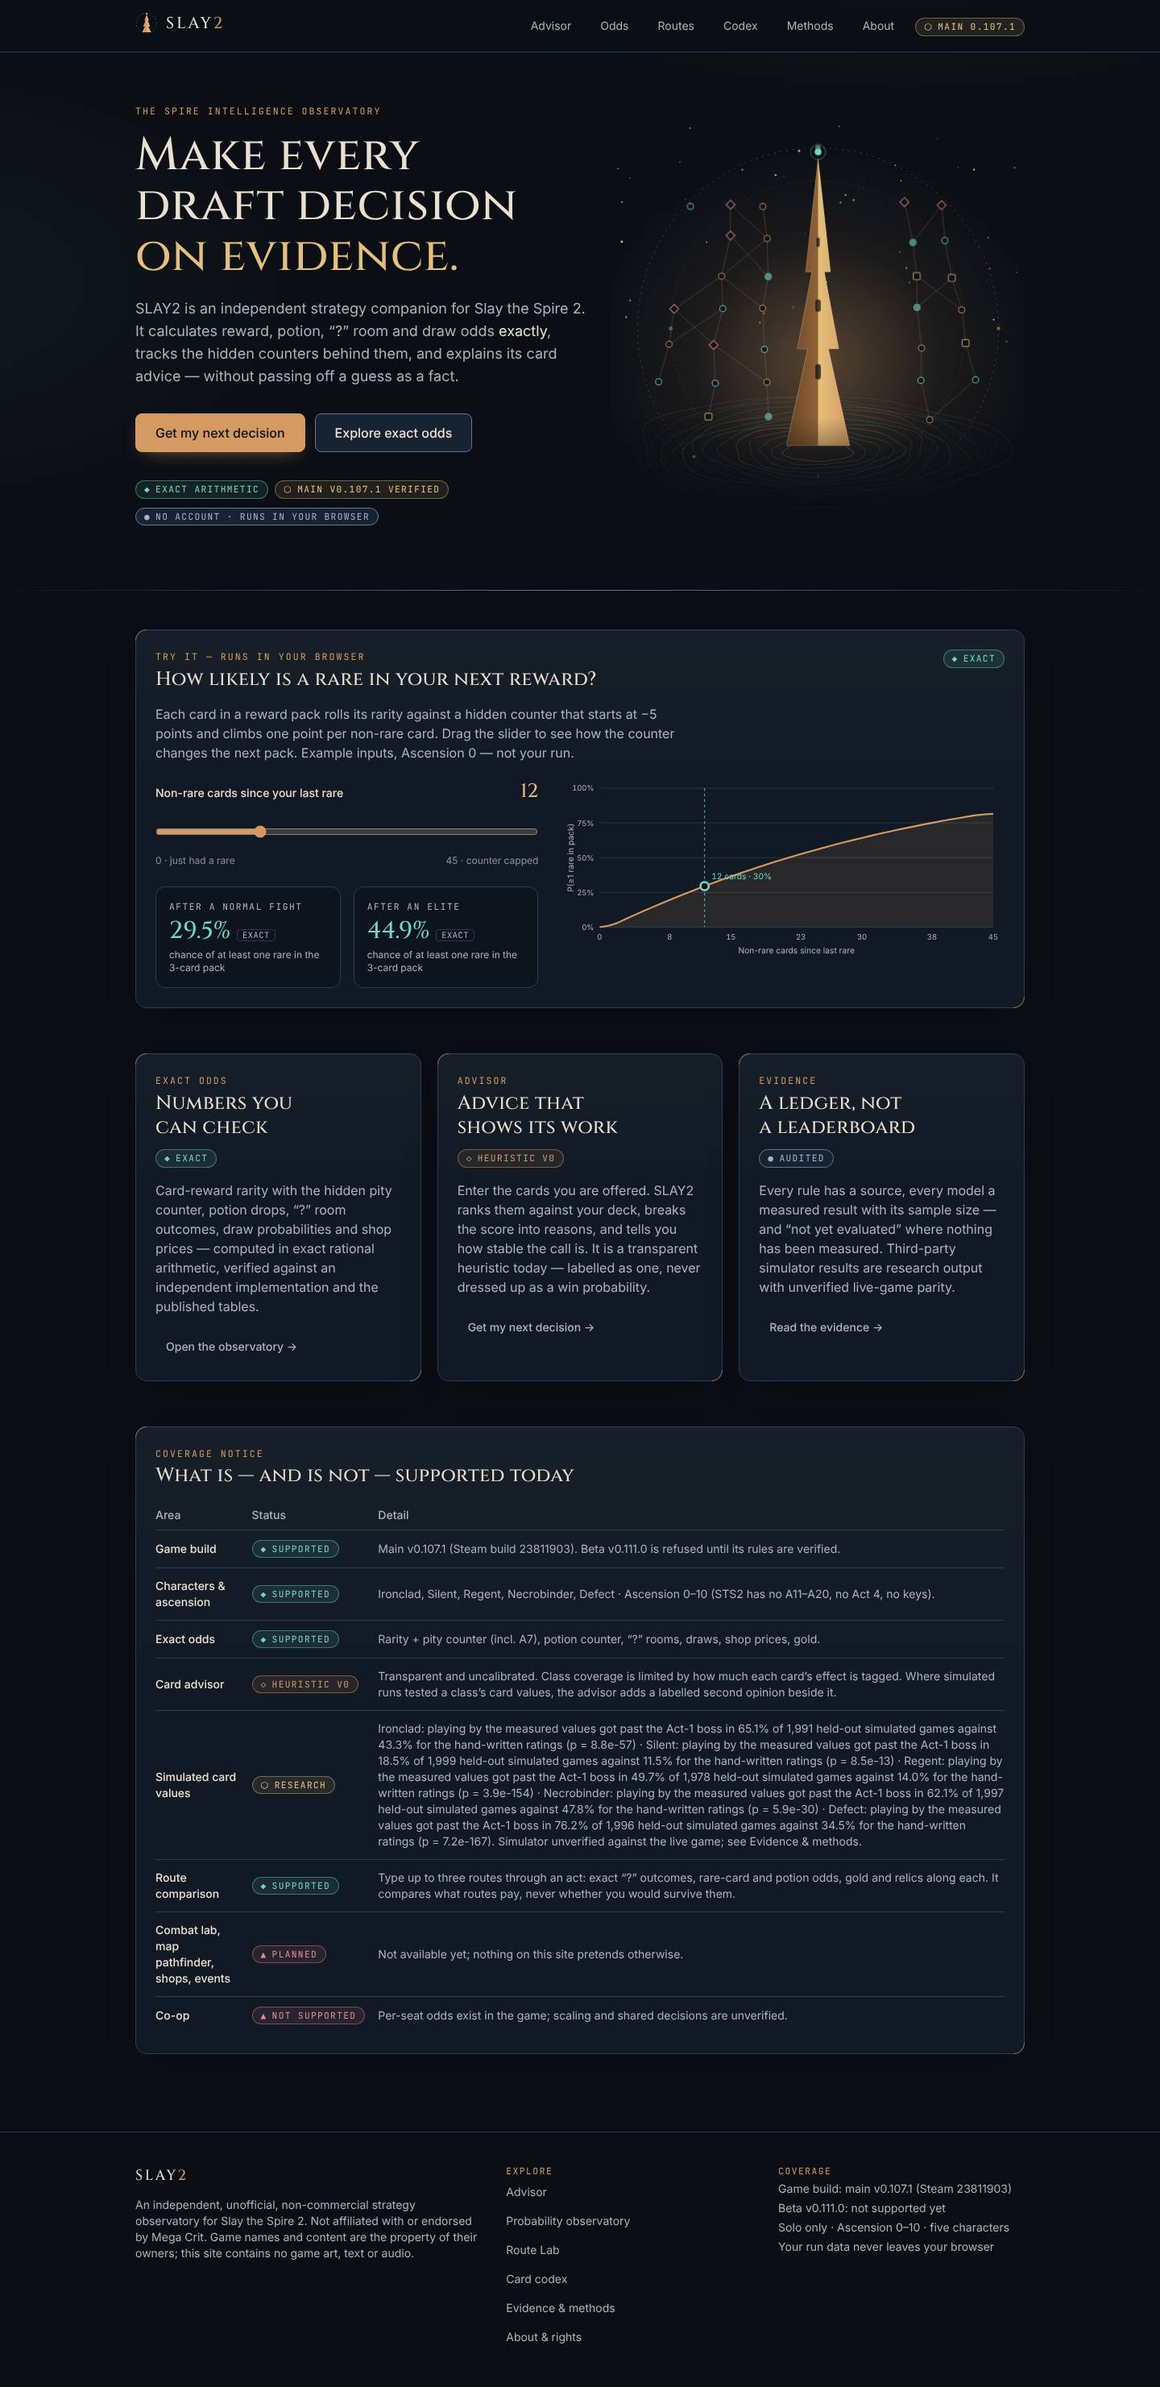
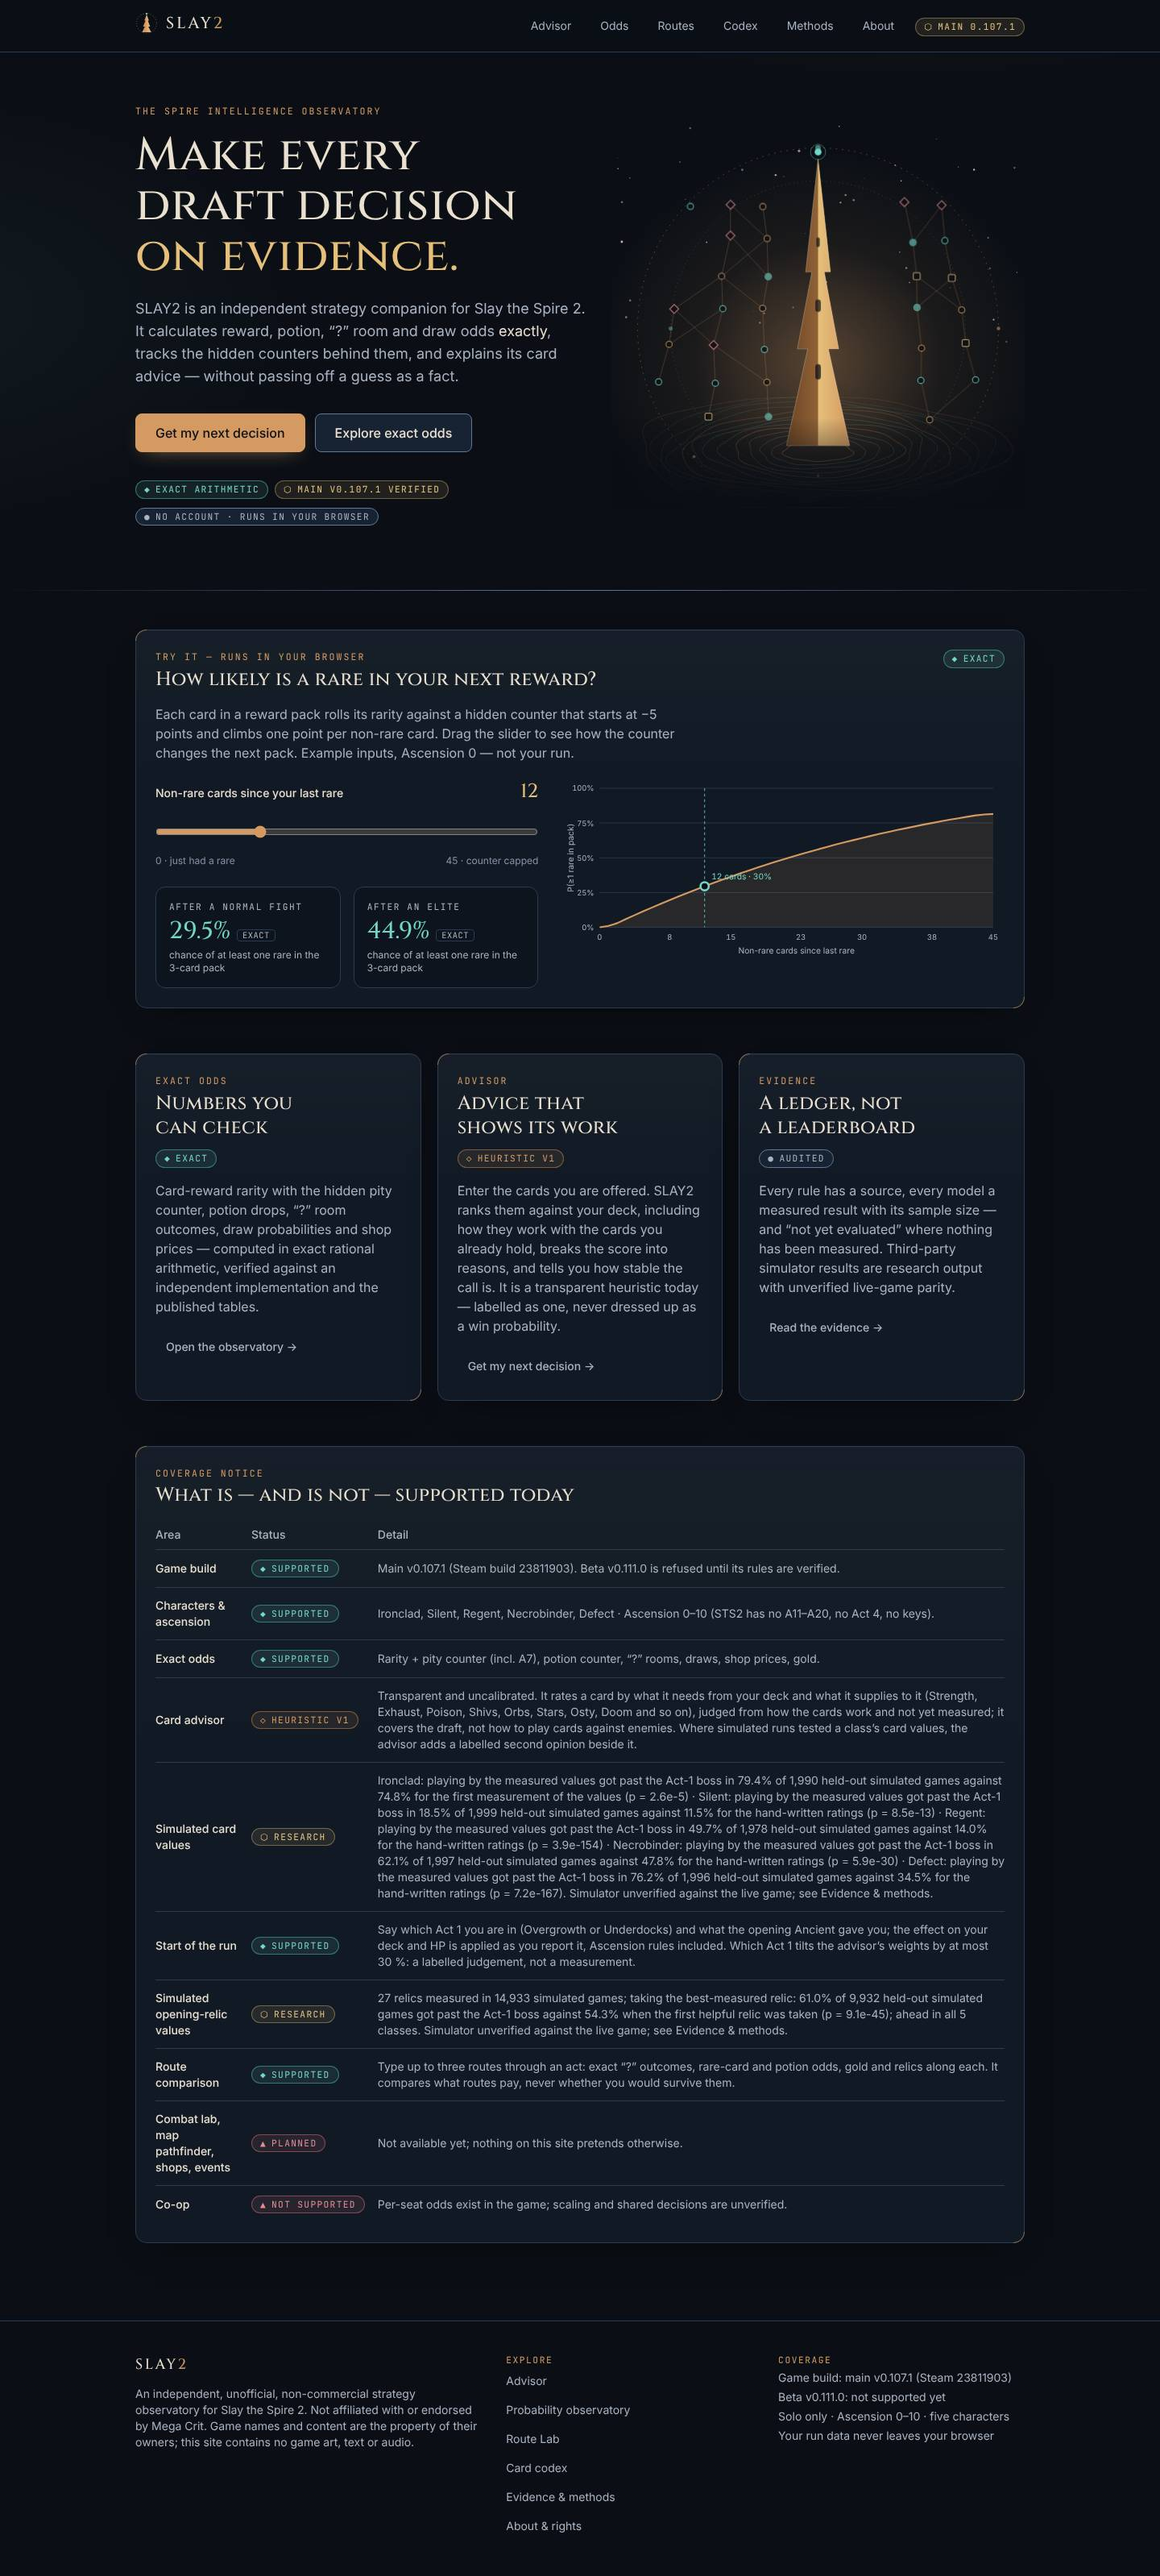
docs: refresh screenshots and test counts after the held-out result
The advisor and methods pages changed with the registered held-out result
(ADR-050), so the production screenshots of the landing, advisor, codex and
methods pages are regenerated from the production build. STATUS records the
commands run on this tree: 616 unit tests, 325 end-to-end tests (0 failed,
133 skipped by design), 471 Python tests (1 strict xfail), and the three CI
jobs of pull request #10 at ebddaca.

Claude-Session: https://claude.ai/code/session_01RqMSFQo8B4Ec4zNvTUumL3

diff --git a/docs/STATUS.md b/docs/STATUS.md
@@ -68,14 +68,14 @@ Real completed games (a win or a death; the batches withdrawn as invalid are exc
 * **Advisor, step 2** (ADR-048): which Act 1 (Overgrowth or Underdocks) and its boss, the opening Ancient's option with its effect on the deck and HP (counted from the ascension's start: 80 % heal from A2, Ascender's Bane from A5), upgrades on the deck rows; facts in `packages/game-data/src/{ancient,acts,characters}.ts`, rules ANC-2, ANC-3, ACT-1 and DECK-1.
 * **Patch watch** (ADR-047): `scripts/patch-watch.mjs` compares Steam's official Slay the Spire 2 announcements with the supported build and `.github/workflows/patch-watch.yml` runs it weekly (a failure is the notification; the schedule starts when this is merged to `main`). On 2026-10-26: newest main post v0.107.1, newest beta v0.111.0, so the supported build is current. It cannot see a patch with no announcement.
 
-## Tests (commands run on 2026-10-27 on the tree of this pull request, built on `db67e11`; the machine, the slowest tests and what is not tested are in [docs/TEST-REPORT.md](TEST-REPORT.md), last refreshed at `b4514aa`)
+## Tests (commands run on 2026-10-27 on the tree of pull request #10 (head `ebddaca`, built on `db67e11`; the commit after it changes only the refreshed screenshots and these rows); the machine, the slowest tests and what is not tested are in [docs/TEST-REPORT.md](TEST-REPORT.md), last refreshed at `b4514aa`)
 
 | Suite | Command | Result |
 |---|---|---|
-| TypeScript, all packages + web | `pnpm check` (typecheck, lint, prettier, tests, production build) | green: game-schema 6, game-data 35, odds 100, decision 104, web 371 = **616 tests**, none skipped; 88 s with the production build |
-| End to end on the production server (`next start`), desktop + mobile, axe WCAG 2.2 AA | `pnpm --filter @slay2/web e2e` | **317 passed, 0 failed, 133 skipped by design** (the width sweeps set their own viewports and run in the mobile project only), 6.0 min: landing (with reduced motion), odds, the advisor journey and its simulated second opinion for every class, the scripted visitor journey, codex, methods, about, 404, navigation, security headers, Route Lab, layout stability, width sweeps from 320 to 1280 px, rich states and enlarged text, no-JavaScript, privacy, the link-preview image, the start of a run and the opening-relic comparison; axe WCAG 2.2 AA on every page in both projects |
-| Python research harness | `PYTHONPATH=sim python -m pytest sim/tests` | **230 passed, 1 strict xfail** (the documented A10 Double Boss gap), 367 s; includes regression tests that replay committed batches seed by seed, the win and sample audits, the class guard, the counterfactual hidden-state tests, the tuning tool, card values, the opening-relic fit and the docs-tables test; the pure tests and the docs-tables test run in CI, the simulator tests skip there |
-| Continuous integration | `.github/workflows/ci.yml` (`web`, `e2e`, `sim` jobs) | all three jobs green on pull request #7 at `b4514aa` (`web` 1 min 49 s, `e2e` 4 min 10 s, `sim` 1 min 12 s). CI runs on pull requests and on `main` only (a branch push with an open pull request used to run it twice), and GitHub Actions is free for the repository now that it is public; for about an hour (07:41 to 08:12 UTC) jobs failed to start at all, which is why the pull request showed red marks that are not test failures (finding 18) |
+| TypeScript, all packages + web | `pnpm check` (typecheck, lint, prettier, tests, production build) | green: game-schema 6, game-data 35, odds 100, decision 104, web 371 = **616 tests**, none skipped; 90 s with the production build |
+| End to end on the production server (`next start`), desktop + mobile, axe WCAG 2.2 AA | `pnpm --filter @slay2/web e2e` | **325 passed, 0 failed, 133 skipped by design** (the width sweeps set their own viewports and run in the mobile project only), 7.3 min: landing (with reduced motion), odds, the advisor journey and its simulated second opinion for every class, the scripted visitor journey, codex, methods, about, 404, navigation, security headers, Route Lab, layout stability, width sweeps from 320 to 1280 px, rich states and enlarged text, no-JavaScript, privacy, the link-preview image, the start of a run and the opening-relic comparison; axe WCAG 2.2 AA on every page in both projects |
+| Python research harness | `PYTHONPATH=sim python -m pytest sim/tests` | **471 passed, 1 strict xfail** (the documented A10 Double Boss gap), 441 s (7.3 min); 189 of the 472 tests are the Python port of the advisor checked number for number against the shared golden file (`test_advisor_port.py`), the rest include regression tests that replay committed batches seed by seed, the win and sample audits, the class guard, the counterfactual hidden-state tests, the tuning tool, card values, the opening-relic fit, the programs of the synergy study (tags, selection rule, pooling, arm profile) and the docs-tables test; the pure tests and the docs-tables test run in CI, the simulator tests skip there |
+| Continuous integration | `.github/workflows/ci.yml` (`web`, `e2e`, `sim` jobs) | all three jobs green on pull request #10 at `ebddaca` (`web` 1 min 24 s, `e2e` 5 min 32 s, `sim` 1 min 40 s), and the Vercel preview of that commit is Ready; no review or comment on the pull request besides the Vercel bot's. CI runs on pull requests and on `main` only (a branch push with an open pull request used to run it twice), and GitHub Actions is free for the repository now that it is public; for about an hour (07:41 to 08:12 UTC) jobs failed to start at all, which is why the pull request showed red marks that are not test failures (finding 18) |
 
 ## Evidence (earlier measurements, still valid)
 
